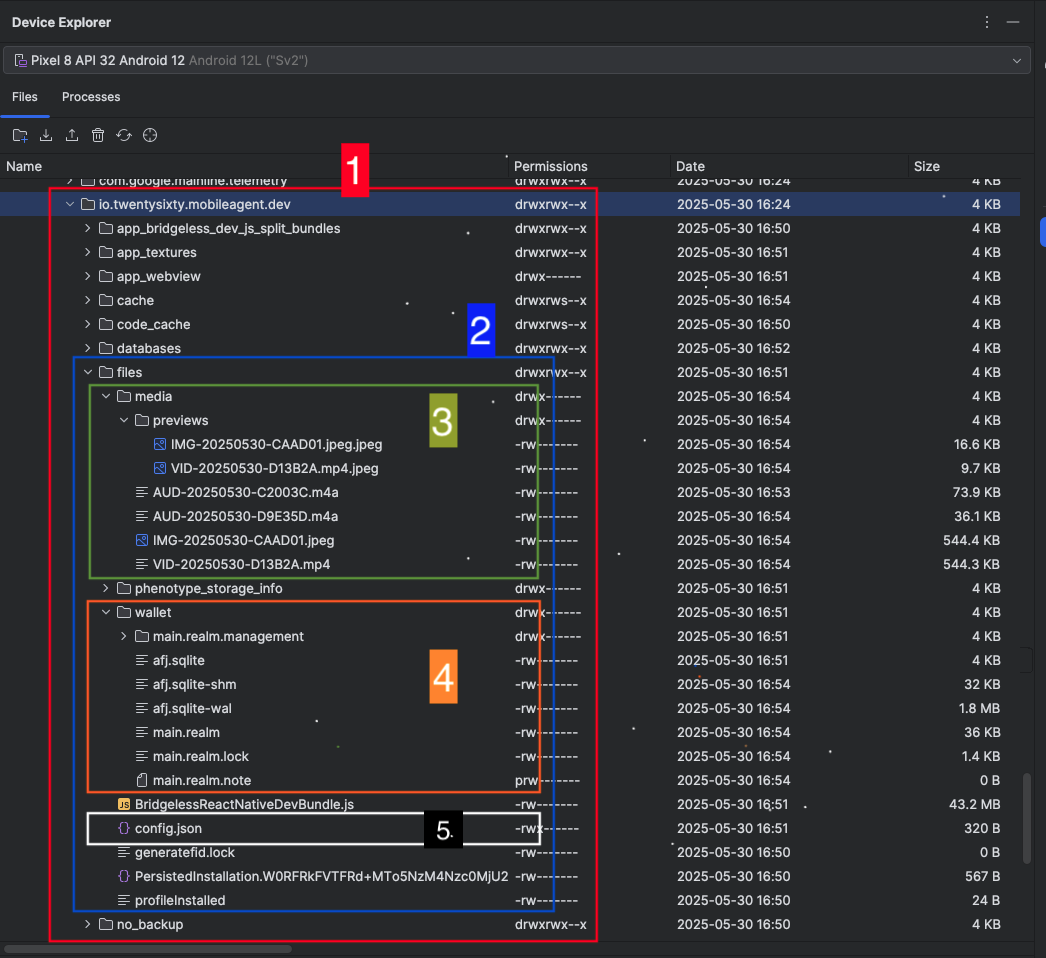
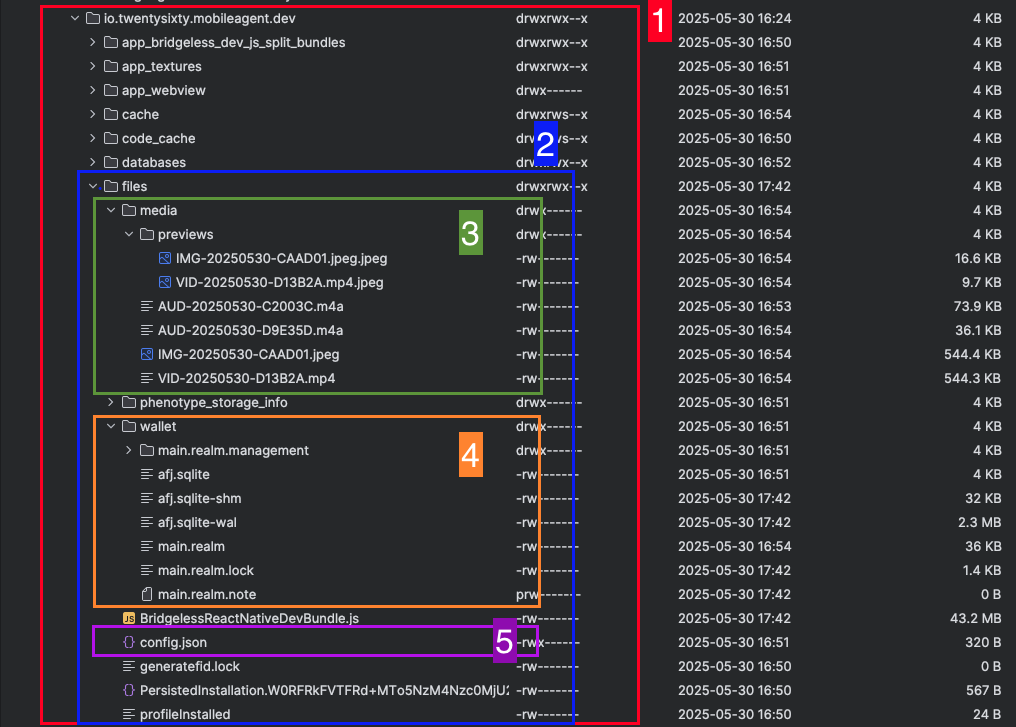
fix: documentation about backup file structure is added

Changed region(s): [[0.0, 0.0, 1.0, 0.9986]]

diff --git a/doc/AppFileSystem.md b/doc/AppFileSystem.md
@@ -106,3 +106,21 @@ Not included:
 - .json config file
 
 It means that if user creates a backup and then restore it. Values in Async Storage and json config file are going to start from scratch it means with default app installation values. Only agent wallet db and local realm database are going to be restored
+
+### To conclude let's talk a little bit about Backup created file structure
+
+One of Hologram features is to allow to user to create a backup of his wallet. This functionality helps user to restore his wallet in other device. At the moment, is not a cross-OS backup. In other words, if backup was built in Android only in an Android device is going to be able to restore his wallet, same way occurs for iOS. Not because files has a different structure or varies something on each platform. By the way, technically speaking would be possible. The constraint is that we upload those backups in Google Drive for Android and iCloud for iOS. In that way, when user wants to restore his wallet in Android is going to looks for backup file in Google Drive and in iCloud for iOS.
+
+Before start, Hologram creates a .zip file and upload it to cloud on each platform. This is done to decrease the final file upload size. When Hologram creates this .zip file only keeps it until backup upload to cloud is finished or backup built process fails, after all Hologram deletes it. But, let's see how is the structure of this temporary backup file.
+
+![](./images/BackupFileStruc.png)
+
+As you can in image above there is a directory called **.Hologram** in cache directory. It contains a .zip file which will be uploaded to cloud and also contains a directory called **input**. In that vein let's talk about each file that composes this **.zip** file or otherwise **input** directory.
+
+- afj.sqlite: Wallet DB. It contains information such as user credentials
+
+- info.json: This the manifest file
+
+- main.realm: Realm DB. Which will allow to user to see his created chats and chats history conversations when restores wallet
+
+- media.zip: This zip contains both images, videos, note voices and previews images for videos and images in chats conversations to avoid to user has to re-download them when restores wallet
